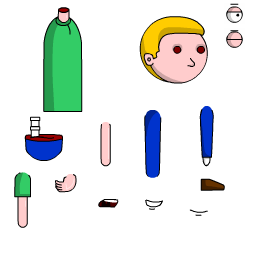
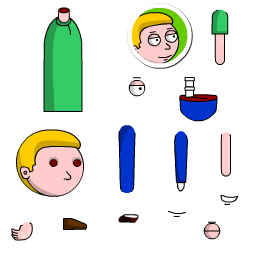
WIP character modding

diff --git a/libs/netlib.js b/libs/netlib.js
@@ -1,2 +1,2 @@
-var e=require("eventemitter3").EventEmitter;function n(e,n,t,r,i,o,a){try{var c=e[o](a),s=c.value}catch(e){return void t(e)}c.done?n(s):Promise.resolve(s).then(r,i)}function t(e,n){for(var t=0;t<n.length;t++){var r=n[t];r.enumerable=r.enumerable||!1,r.configurable=!0,"value"in r&&(r.writable=!0),Object.defineProperty(e,r.key,r)}}var r=function(){function e(n,t,r){var i=this;!function(e,n){if(!(e instanceof n))throw new TypeError("Cannot call a class as a function")}(this,e),this.network=n,this.connections=t,this.ws=new WebSocket(r),this.ws.addEventListener("open",(function(){i.network.emit("ready")})),this.ws.addEventListener("error",(function(e){i.network.emit("signalingerror",e)})),this.ws.addEventListener("close",(function(){i.network.close("signaling websocket closed")})),this.ws.addEventListener("message",(function(e){i.handleSignalingMessage(e.data).catch((function(e){}))}))}var r,i,o,a,c;return r=e,(i=[{key:"close",value:function(e){null!=this.receivedID&&this.send({type:"leave",id:this.receivedID,reason:null!=e?e:"normal closure"}),this.ws.close()}},{key:"send",value:function(e){if(this.ws.readyState===WebSocket.CONNECTING||this.ws.readyState===WebSocket.OPEN){this.network.log("sending signaling packet:",e.type);var n=JSON.stringify(e);this.ws.send(n)}}},{key:"handleSignalingMessage",value:(a=regeneratorRuntime.mark((function e(n){var t,r,i;return regeneratorRuntime.wrap((function(e){for(;;)switch(e.prev=e.next){case 0:e.prev=0,t=JSON.parse(n),this.network.log("signaling packet received:",t.type),e.t0=t.type,e.next="joined"===e.t0?6:"connect"===e.t0?13:"disconnected"===e.t0?17:"candidate"===e.t0||"description"===e.t0?19:26;break;case 6:if(""!==t.id){e.next=8;break}throw new Error("missing id on received connect packet");case 8:if(""!==t.lobby){e.next=10;break}throw new Error("missing lobby on received connect packet");case 10:return this.receivedID=t.id,this.network.emit("lobby",t.lobby),e.abrupt("break",26);case 13:if(this.receivedID!==t.id){e.next=15;break}return e.abrupt("return");case 15:return this.network._addPeer(t.id,t.polite),e.abrupt("break",26);case 17:return this.connections.has(t.id)&&(null===(r=this.connections.get(t.id))||void 0===r||r.close()),e.abrupt("break",26);case 19:if(!this.connections.has(t.source)){e.next=24;break}return e.next=22,null===(i=this.connections.get(t.source))||void 0===i?void 0:i._onSignalingMessage(t);case 22:e.next=25;break;case 24:console.error("recieved packet for unknown connection (id):",t.source);case 25:return e.abrupt("break",26);case 26:e.next=31;break;case 28:e.prev=28,e.t1=e.catch(0),this.network.emit("signalingerror",e.t1);case 31:case"end":return e.stop()}}),e,this,[[0,28]])})),c=function(){var e=this,t=arguments;return new Promise((function(r,i){var o=a.apply(e,t);function c(e){n(o,r,i,c,s,"next",e)}function s(e){n(o,r,i,c,s,"throw",e)}c(void 0)}))},function(e){return c.apply(this,arguments)})}])&&t(r.prototype,i),o&&t(r,o),e}();function i(e,n){var t=Object.keys(e);if(Object.getOwnPropertySymbols){var r=Object.getOwnPropertySymbols(e);n&&(r=r.filter((function(n){return Object.getOwnPropertyDescriptor(e,n).enumerable}))),t.push.apply(t,r)}return t}function o(e){for(var n=1;n<arguments.length;n++){var t=null!=arguments[n]?arguments[n]:{};n%2?i(Object(t),!0).forEach((function(n){u(e,n,t[n])})):Object.getOwnPropertyDescriptors?Object.defineProperties(e,Object.getOwnPropertyDescriptors(t)):i(Object(t)).forEach((function(n){Object.defineProperty(e,n,Object.getOwnPropertyDescriptor(t,n))}))}return e}function a(e,n,t,r,i,o,a){try{var c=e[o](a),s=c.value}catch(e){return void t(e)}c.done?n(s):Promise.resolve(s).then(r,i)}function c(e){return function(){var n=this,t=arguments;return new Promise((function(r,i){var o=e.apply(n,t);function c(e){a(o,r,i,c,s,"next",e)}function s(e){a(o,r,i,c,s,"throw",e)}c(void 0)}))}}function s(e,n){for(var t=0;t<n.length;t++){var r=n[t];r.enumerable=r.enumerable||!1,r.configurable=!0,"value"in r&&(r.writable=!0),Object.defineProperty(e,r.key,r)}}function u(e,n,t){return n in e?Object.defineProperty(e,n,{value:t,enumerable:!0,configurable:!0,writable:!0}):e[n]=t,e}var l=function(){function e(n,t,r,i,a){var s=this;!function(e,n){if(!(e instanceof n))throw new TypeError("Cannot call a class as a function")}(this,e),u(this,"makingOffer",!1),u(this,"ignoreOffer",!1),u(this,"isSettingRemoteAnswerPending",!1),u(this,"opened",!1),u(this,"closing",!1),u(this,"latency",0),this.network=n,this.signaling=t,this.id=r,this.polite=i,this.channels={},this.network.log("creating peer"),this.conn=new RTCPeerConnection(a),this.conn.addEventListener("icecandidate",(function(e){var n=e.candidate;null!==n&&t.send({type:"candidate",source:s.network.id,recipient:s.id,candidate:n})})),this.conn.addEventListener("negotiationneeded",(function(){setTimeout((function(){c(regeneratorRuntime.mark((function e(){var n;return regeneratorRuntime.wrap((function(e){for(;;)switch(e.prev=e.next){case 0:if(e.prev=0,!s.closing){e.next=3;break}return e.abrupt("return");case 3:s.makingOffer=!0,e.next=13;break;case 8:return e.t1=e.sent,e.next=11,e.t0.setLocalDescription.call(e.t0,e.t1);case 11:e.next=15;break;case 13:return e.next=15,s.conn.setLocalDescription();case 15:null!=(n=s.conn.localDescription)&&s.signaling.send({type:"description",source:s.network.id,recipient:s.id,description:n}),e.next=22;break;case 19:e.prev=19,e.t2=e.catch(0),s.network.emit("signalingerror",e.t2);case 22:return e.prev=22,s.makingOffer=!1,e.finish(22);case 25:case"end":return e.stop()}}),e,null,[[0,19,22,25]])})))().catch((function(e){}))}),s.polite?100:0)})),this.checkStateInterval=setInterval((function(){s.checkState()}),500),this.conn.addEventListener("signalingstatechange",(function(){return s.checkState()})),this.conn.addEventListener("connectionstatechange",(function(){return s.checkState()})),this.conn.addEventListener("iceconnectionstatechange",(function(){"failed"===s.conn.iceConnectionState&&s.conn.restartIce()})),this.network.emit("peerconnecting",this);var l=0,f=function(e){var n=s.conn.createDataChannel(e,o(o({},s.network.dataChannels[e]),{},{id:l++,negotiated:!0}));n.addEventListener("error",(function(e){return s.onError(e)})),n.addEventListener("close",(function(){return s.checkState()})),n.addEventListener("open",(function(){s.opened||Object.values(s.channels).some((function(e){return"open"!==e.readyState}))||(s.signaling.send({type:"connected",id:s.id}),s.opened=!0,s.network.emit("peerconnected",s))})),n.addEventListener("message",(function(n){s.network.emit("message",s,e,n.data)})),s.channels[e]=n};for(var h in this.network.dataChannels)f(h)}var n,t,r,i;return n=e,(t=[{key:"close",value:function(e){this.closing||(this.closing=!0,this.signaling.send({type:"disconnected",id:this.id,reason:null!=e?e:"normal closure"}),Object.values(this.channels).forEach((function(e){return e.close()})),this.conn.close(),this.network._removePeer(this),null!=this.checkStateInterval&&clearInterval(this.checkStateInterval),this.opened&&this.network.emit("peerdisconnected",this))}},{key:"checkState",value:function(){var e=this;this.closing||(this.opened?(Object.values(this.channels).some((function(e){return"open"!==e.readyState}))&&this.close("data channel closed"),"connected"!==this.conn.connectionState&&this.close("invalid connection state ".concat(this.conn.connectionState,"/").concat(this.conn.signalingState)),this.conn.getStats().then((function(n){n.forEach((function(n){var t;"transport"===n.type&&(e.latency=null!==(t=n.currentRoundTripTime)&&void 0!==t?t:0)}))})).catch((function(e){}))):"failed"===this.conn.connectionState&&this.close("connecting failed"))}},{key:"onError",value:function(e){this.network.emit("rtcerror",e),this.checkState()}},{key:"_onSignalingMessage",value:(i=c(regeneratorRuntime.mark((function e(n){var t,r,i,o;return regeneratorRuntime.wrap((function(e){for(;;)switch(e.prev=e.next){case 0:e.t0=n.type,e.next="candidate"===e.t0?3:"description"===e.t0?14:39;break;case 3:if(null==n.candidate){e.next=13;break}return e.prev=4,e.next=7,this.conn.addIceCandidate(n.candidate);case 7:e.next=13;break;case 9:if(e.prev=9,e.t1=e.catch(4),this.ignoreOffer){e.next=13;break}throw e.t1;case 13:return e.abrupt("break",39);case 14:if(t=n.description,r=!this.makingOffer&&("stable"===this.conn.signalingState||this.isSettingRemoteAnswerPending),i="offer"===t.type&&!r,this.ignoreOffer=!this.polite&&i,!this.ignoreOffer){e.next=20;break}return e.abrupt("return");case 20:return this.isSettingRemoteAnswerPending="answer"===t.type,e.next=23,this.conn.setRemoteDescription(t);case 23:if(this.isSettingRemoteAnswerPending=!1,"offer"!==t.type){e.next=38;break}e.next=34;break;case 29:return e.t3=e.sent,e.next=32,e.t2.setLocalDescription.call(e.t2,e.t3);case 32:e.next=36;break;case 34:return e.next=36,this.conn.setLocalDescription();case 36:null!=(o=this.conn.localDescription)&&this.signaling.send({type:"description",source:this.network.id,recipient:this.id,description:o});case 38:return e.abrupt("break",39);case 39:case"end":return e.stop()}}),e,this,[[4,9]])}))),function(e){return i.apply(this,arguments)})},{key:"send",value:function(e,n){if(!(e in this.channels))throw new Error("unknown channel "+e);var t=this.channels[e];"open"===t.readyState&&t.send(n)}},{key:"toString",value:function(){return"[Peer: ".concat(this.id,"]")}}])&&s(n.prototype,t),r&&s(n,r),e}();function f(e){return(f="function"==typeof Symbol&&"symbol"==typeof Symbol.iterator?function(e){return typeof e}:function(e){return e&&"function"==typeof Symbol&&e.constructor===Symbol&&e!==Symbol.prototype?"symbol":typeof e})(e)}function h(e,n){var t="undefined"!=typeof Symbol&&e[Symbol.iterator]||e["@@iterator"];if(!t){if(Array.isArray(e)||(t=function(e,n){if(!e)return;if("string"==typeof e)return d(e,n);var t=Object.prototype.toString.call(e).slice(8,-1);"Object"===t&&e.constructor&&(t=e.constructor.name);if("Map"===t||"Set"===t)return Array.from(e);if("Arguments"===t||/^(?:Ui|I)nt(?:8|16|32)(?:Clamped)?Array$/.test(t))return d(e,n)}(e))||n&&e&&"number"==typeof e.length){t&&(e=t);var r=0,i=function(){};return{s:i,n:function(){return r>=e.length?{done:!0}:{done:!1,value:e[r++]}},e:function(e){function n(n){return e.apply(this,arguments)}return n.toString=function(){return e.toString()},n}((function(e){throw e})),f:i}}throw new TypeError("Invalid attempt to iterate non-iterable instance.\nIn order to be iterable, non-array objects must have a [Symbol.iterator]() method.")}var o,a=!0,c=!1;return{s:function(){t=t.call(e)},n:function(){var e=t.next();return a=e.done,e},e:function(e){function n(n){return e.apply(this,arguments)}return n.toString=function(){return e.toString()},n}((function(e){c=!0,o=e})),f:function(){try{a||null==t.return||t.return()}finally{if(c)throw o}}}}function d(e,n){(null==n||n>e.length)&&(n=e.length);for(var t=0,r=new Array(n);t<n;t++)r[t]=e[t];return r}function p(e,n){if(!(e instanceof n))throw new TypeError("Cannot call a class as a function")}function g(e,n){for(var t=0;t<n.length;t++){var r=n[t];r.enumerable=r.enumerable||!1,r.configurable=!0,"value"in r&&(r.writable=!0),Object.defineProperty(e,r.key,r)}}function v(e,n){return(v=Object.setPrototypeOf||function(e,n){return e.__proto__=n,e})(e,n)}function y(e){var n=function(){if("undefined"==typeof Reflect||!Reflect.construct)return!1;if(Reflect.construct.sham)return!1;if("function"==typeof Proxy)return!0;try{return Boolean.prototype.valueOf.call(Reflect.construct(Boolean,[],(function(){}))),!0}catch(e){return!1}}();return function(){var t,r=w(e);if(n){var i=w(this).constructor;t=Reflect.construct(r,arguments,i)}else t=r.apply(this,arguments);return b(this,t)}}function b(e,n){return!n||"object"!==f(n)&&"function"!=typeof n?k(e):n}function k(e){if(void 0===e)throw new ReferenceError("this hasn't been initialised - super() hasn't been called");return e}function w(e){return(w=Object.setPrototypeOf?Object.getPrototypeOf:function(e){return e.__proto__||Object.getPrototypeOf(e)})(e)}function m(e,n,t){return n in e?Object.defineProperty(e,n,{value:t,enumerable:!0,configurable:!0,writable:!0}):e[n]=t,e}var S=function(n){!function(e,n){if("function"!=typeof n&&null!==n)throw new TypeError("Super expression must either be null or a function");e.prototype=Object.create(n&&n.prototype,{constructor:{value:e,writable:!0,configurable:!0}}),n&&v(e,n)}(c,e);var t,i,o,a=y(c);function c(e){var n,t=arguments.length>1&&void 0!==arguments[1]?arguments[1]:O;return p(this,c),m(k(n=a.call(this)),"closing",!1),m(k(n),"dataChannels",E),m(k(n),"log",(function(){})),n.gameID=e,n.signalingURL=t,n.peers=new Map,n.signaling=new r(k(n),n.peers,t),n}return t=c,(i=[{key:"create",value:function(){this.signaling.send({type:"create",game:this.gameID})}},{key:"join",value:function(e){this.signaling.send({type:"join",game:this.gameID,lobby:e})}},{key:"close",value:function(e){if(!this.closing){this.closing=!0,this.emit("close",e);var n,t=h(this.peers.values());try{for(t.s();!(n=t.n()).done;)n.value.close(e)}catch(e){t.e(e)}finally{t.f()}this.signaling.close(e)}}},{key:"send",value:function(e,n,t){if(!(e in this.dataChannels))throw new Error("unknown channel "+e);var r;this.peers.has(n)&&(null===(r=this.peers.get(n))||void 0===r||r.send(e,t))}},{key:"broadcast",value:function(e,n){if(!(e in this.dataChannels))throw new Error("unknown channel "+e);var t,r=h(this.peers.values());try{for(r.s();!(t=r.n()).done;)t.value.send(e,n)}catch(e){r.e(e)}finally{r.f()}}},{key:"_addPeer",value:function(e,n){var t=new l(this,this.signaling,e,n,x);return this.peers.set(e,t),t}},{key:"_removePeer",value:function(e){return this.peers.delete(e.id)}},{key:"id",get:function(){var e;return null!==(e=this.signaling.receivedID)&&void 0!==e?e:""}},{key:"size",get:function(){return this.peers.size}}])&&g(t.prototype,i),o&&g(t,o),c}();exports.Network=S;var O="ws://localhost:8080/v0/signaling";exports.DefaultSignalingURL=O;var x={iceServers:[{urls:["stun:stun.l.google.com:19302","stun:stun3.l.google.com:19302"]},{urls:["turn:localhost:8080"],username:"optional-username",credential:"secret",credentialType:"password"}]};exports.DefaultRTCConfiguration=x;var E={reliable:{ordered:!0},unreliable:{ordered:!1,maxRetransmits:0}};exports.DefaultDataChannels=E;
+var e=require("eventemitter3").EventEmitter;function n(e,n,t,r,i,o,a){try{var c=e[o](a),s=c.value}catch(e){return void t(e)}c.done?n(s):Promise.resolve(s).then(r,i)}function t(e,n){for(var t=0;t<n.length;t++){var r=n[t];r.enumerable=r.enumerable||!1,r.configurable=!0,"value"in r&&(r.writable=!0),Object.defineProperty(e,r.key,r)}}var r=function(){function e(n,t,r){var i=this;!function(e,n){if(!(e instanceof n))throw new TypeError("Cannot call a class as a function")}(this,e),this.network=n,this.connections=t,this.ws=new WebSocket(r),this.ws.addEventListener("open",(function(){i.network.emit("ready")})),this.ws.addEventListener("error",(function(e){i.network.emit("signalingerror",e),0===i.network.listenerCount("signalingerror")&&console.error("signallingerror not handled:",e)})),this.ws.addEventListener("close",(function(){})),this.ws.addEventListener("message",(function(e){i.handleSignalingMessage(e.data).catch((function(e){}))}))}var r,i,o,a,c;return r=e,(i=[{key:"close",value:function(e){null!=this.receivedID&&this.send({type:"leave",id:this.receivedID,reason:null!=e?e:"normal closure"}),this.ws.close()}},{key:"send",value:function(e){if(this.ws.readyState===WebSocket.CONNECTING||this.ws.readyState===WebSocket.OPEN){this.network.log("sending signaling packet:",e.type);var n=JSON.stringify(e);this.ws.send(n)}}},{key:"handleSignalingMessage",value:(a=regeneratorRuntime.mark((function e(n){var t,r,i;return regeneratorRuntime.wrap((function(e){for(;;)switch(e.prev=e.next){case 0:e.prev=0,t=JSON.parse(n),this.network.log("signaling packet received:",t.type),e.t0=t.type,e.next="joined"===e.t0?6:"connect"===e.t0?13:"disconnected"===e.t0?17:"candidate"===e.t0||"description"===e.t0?19:26;break;case 6:if(""!==t.id){e.next=8;break}throw new Error("missing id on received connect packet");case 8:if(""!==t.lobby){e.next=10;break}throw new Error("missing lobby on received connect packet");case 10:return this.receivedID=t.id,this.network.emit("lobby",t.lobby),e.abrupt("break",26);case 13:if(this.receivedID!==t.id){e.next=15;break}return e.abrupt("return");case 15:return this.network._addPeer(t.id,t.polite),e.abrupt("break",26);case 17:return this.connections.has(t.id)&&(null===(r=this.connections.get(t.id))||void 0===r||r.close()),e.abrupt("break",26);case 19:if(!this.connections.has(t.source)){e.next=24;break}return e.next=22,null===(i=this.connections.get(t.source))||void 0===i?void 0:i._onSignalingMessage(t);case 22:e.next=25;break;case 24:this.network.closing||console.error(this.network.id,"recieved packet for unknown connection (id):",t.source);case 25:return e.abrupt("break",26);case 26:e.next=31;break;case 28:e.prev=28,e.t1=e.catch(0),this.network.emit("signalingerror",e.t1);case 31:case"end":return e.stop()}}),e,this,[[0,28]])})),c=function(){var e=this,t=arguments;return new Promise((function(r,i){var o=a.apply(e,t);function c(e){n(o,r,i,c,s,"next",e)}function s(e){n(o,r,i,c,s,"throw",e)}c(void 0)}))},function(e){return c.apply(this,arguments)})}])&&t(r.prototype,i),o&&t(r,o),e}();function i(e,n){var t=Object.keys(e);if(Object.getOwnPropertySymbols){var r=Object.getOwnPropertySymbols(e);n&&(r=r.filter((function(n){return Object.getOwnPropertyDescriptor(e,n).enumerable}))),t.push.apply(t,r)}return t}function o(e){for(var n=1;n<arguments.length;n++){var t=null!=arguments[n]?arguments[n]:{};n%2?i(Object(t),!0).forEach((function(n){u(e,n,t[n])})):Object.getOwnPropertyDescriptors?Object.defineProperties(e,Object.getOwnPropertyDescriptors(t)):i(Object(t)).forEach((function(n){Object.defineProperty(e,n,Object.getOwnPropertyDescriptor(t,n))}))}return e}function a(e,n,t,r,i,o,a){try{var c=e[o](a),s=c.value}catch(e){return void t(e)}c.done?n(s):Promise.resolve(s).then(r,i)}function c(e){return function(){var n=this,t=arguments;return new Promise((function(r,i){var o=e.apply(n,t);function c(e){a(o,r,i,c,s,"next",e)}function s(e){a(o,r,i,c,s,"throw",e)}c(void 0)}))}}function s(e,n){for(var t=0;t<n.length;t++){var r=n[t];r.enumerable=r.enumerable||!1,r.configurable=!0,"value"in r&&(r.writable=!0),Object.defineProperty(e,r.key,r)}}function u(e,n,t){return n in e?Object.defineProperty(e,n,{value:t,enumerable:!0,configurable:!0,writable:!0}):e[n]=t,e}var l=function(){function e(n,t,r,i,a){var s=this;!function(e,n){if(!(e instanceof n))throw new TypeError("Cannot call a class as a function")}(this,e),u(this,"makingOffer",!1),u(this,"ignoreOffer",!1),u(this,"isSettingRemoteAnswerPending",!1),u(this,"opened",!1),u(this,"closing",!1),u(this,"latency",0),this.network=n,this.signaling=t,this.id=r,this.polite=i,this.channels={},this.network.log("creating peer"),this.conn=new RTCPeerConnection(a),this.conn.addEventListener("icecandidate",(function(e){var n=e.candidate;null!==n&&t.send({type:"candidate",source:s.network.id,recipient:s.id,candidate:n})})),this.conn.addEventListener("negotiationneeded",(function(){setTimeout((function(){c(regeneratorRuntime.mark((function e(){var n;return regeneratorRuntime.wrap((function(e){for(;;)switch(e.prev=e.next){case 0:if(e.prev=0,!s.closing){e.next=3;break}return e.abrupt("return");case 3:s.makingOffer=!0,e.next=13;break;case 8:return e.t1=e.sent,e.next=11,e.t0.setLocalDescription.call(e.t0,e.t1);case 11:e.next=15;break;case 13:return e.next=15,s.conn.setLocalDescription();case 15:null!=(n=s.conn.localDescription)&&s.signaling.send({type:"description",source:s.network.id,recipient:s.id,description:n}),e.next=22;break;case 19:e.prev=19,e.t2=e.catch(0),s.network.emit("signalingerror",e.t2);case 22:return e.prev=22,s.makingOffer=!1,e.finish(22);case 25:case"end":return e.stop()}}),e,null,[[0,19,22,25]])})))().catch((function(e){}))}),s.polite?100:0)})),this.checkStateInterval=setInterval((function(){s.checkState()}),500),this.conn.addEventListener("signalingstatechange",(function(){return s.checkState()})),this.conn.addEventListener("connectionstatechange",(function(){return s.checkState()})),this.conn.addEventListener("iceconnectionstatechange",(function(){"failed"===s.conn.iceConnectionState&&s.conn.restartIce()})),this.network.emit("peerconnecting",this);var l=0,f=function(e){var n=s.conn.createDataChannel(e,o(o({},s.network.dataChannels[e]),{},{id:l++,negotiated:!0}));n.addEventListener("error",(function(e){return s.onError(e)})),n.addEventListener("close",(function(){return s.checkState()})),n.addEventListener("open",(function(){s.opened||Object.values(s.channels).some((function(e){return"open"!==e.readyState}))||(s.signaling.send({type:"connected",id:s.id}),s.opened=!0,s.network.emit("peerconnected",s))})),n.addEventListener("message",(function(n){s.network.emit("message",s,e,n.data)})),s.channels[e]=n};for(var h in this.network.dataChannels)f(h)}var n,t,r,i;return n=e,(t=[{key:"close",value:function(e){this.closing||(this.closing=!0,this.signaling.send({type:"disconnected",id:this.id,reason:null!=e?e:"normal closure"}),Object.values(this.channels).forEach((function(e){return e.close()})),this.conn.close(),this.network._removePeer(this),null!=this.checkStateInterval&&clearInterval(this.checkStateInterval),this.opened&&this.network.emit("peerdisconnected",this))}},{key:"checkState",value:function(){var e=this;this.closing||(this.opened?(Object.values(this.channels).some((function(e){return"open"!==e.readyState}))&&this.close("data channel closed"),"connected"!==this.conn.connectionState&&this.close("invalid connection state ".concat(this.conn.connectionState,"/").concat(this.conn.signalingState)),this.conn.getStats().then((function(n){n.forEach((function(n){var t;"transport"===n.type&&(e.latency=null!==(t=n.currentRoundTripTime)&&void 0!==t?t:0)}))})).catch((function(e){}))):"failed"===this.conn.connectionState&&this.close("connecting failed"))}},{key:"onError",value:function(e){this.network.emit("rtcerror",e),this.checkState()}},{key:"_onSignalingMessage",value:(i=c(regeneratorRuntime.mark((function e(n){var t,r,i,o;return regeneratorRuntime.wrap((function(e){for(;;)switch(e.prev=e.next){case 0:e.t0=n.type,e.next="candidate"===e.t0?3:"description"===e.t0?14:39;break;case 3:if(null==n.candidate){e.next=13;break}return e.prev=4,e.next=7,this.conn.addIceCandidate(n.candidate);case 7:e.next=13;break;case 9:if(e.prev=9,e.t1=e.catch(4),this.ignoreOffer){e.next=13;break}throw e.t1;case 13:return e.abrupt("break",39);case 14:if(t=n.description,r=!this.makingOffer&&("stable"===this.conn.signalingState||this.isSettingRemoteAnswerPending),i="offer"===t.type&&!r,this.ignoreOffer=!this.polite&&i,!this.ignoreOffer){e.next=20;break}return e.abrupt("return");case 20:return this.isSettingRemoteAnswerPending="answer"===t.type,e.next=23,this.conn.setRemoteDescription(t);case 23:if(this.isSettingRemoteAnswerPending=!1,"offer"!==t.type){e.next=38;break}e.next=34;break;case 29:return e.t3=e.sent,e.next=32,e.t2.setLocalDescription.call(e.t2,e.t3);case 32:e.next=36;break;case 34:return e.next=36,this.conn.setLocalDescription();case 36:null!=(o=this.conn.localDescription)&&this.signaling.send({type:"description",source:this.network.id,recipient:this.id,description:o});case 38:return e.abrupt("break",39);case 39:case"end":return e.stop()}}),e,this,[[4,9]])}))),function(e){return i.apply(this,arguments)})},{key:"send",value:function(e,n){if(!(e in this.channels))throw new Error("unknown channel "+e);var t=this.channels[e];"open"===t.readyState&&t.send(n)}},{key:"toString",value:function(){return"[Peer: ".concat(this.id,"]")}}])&&s(n.prototype,t),r&&s(n,r),e}();function f(e){return(f="function"==typeof Symbol&&"symbol"==typeof Symbol.iterator?function(e){return typeof e}:function(e){return e&&"function"==typeof Symbol&&e.constructor===Symbol&&e!==Symbol.prototype?"symbol":typeof e})(e)}function h(e,n){var t="undefined"!=typeof Symbol&&e[Symbol.iterator]||e["@@iterator"];if(!t){if(Array.isArray(e)||(t=function(e,n){if(!e)return;if("string"==typeof e)return d(e,n);var t=Object.prototype.toString.call(e).slice(8,-1);"Object"===t&&e.constructor&&(t=e.constructor.name);if("Map"===t||"Set"===t)return Array.from(e);if("Arguments"===t||/^(?:Ui|I)nt(?:8|16|32)(?:Clamped)?Array$/.test(t))return d(e,n)}(e))||n&&e&&"number"==typeof e.length){t&&(e=t);var r=0,i=function(){};return{s:i,n:function(){return r>=e.length?{done:!0}:{done:!1,value:e[r++]}},e:function(e){function n(n){return e.apply(this,arguments)}return n.toString=function(){return e.toString()},n}((function(e){throw e})),f:i}}throw new TypeError("Invalid attempt to iterate non-iterable instance.\nIn order to be iterable, non-array objects must have a [Symbol.iterator]() method.")}var o,a=!0,c=!1;return{s:function(){t=t.call(e)},n:function(){var e=t.next();return a=e.done,e},e:function(e){function n(n){return e.apply(this,arguments)}return n.toString=function(){return e.toString()},n}((function(e){c=!0,o=e})),f:function(){try{a||null==t.return||t.return()}finally{if(c)throw o}}}}function d(e,n){(null==n||n>e.length)&&(n=e.length);for(var t=0,r=new Array(n);t<n;t++)r[t]=e[t];return r}function p(e,n){if(!(e instanceof n))throw new TypeError("Cannot call a class as a function")}function g(e,n){for(var t=0;t<n.length;t++){var r=n[t];r.enumerable=r.enumerable||!1,r.configurable=!0,"value"in r&&(r.writable=!0),Object.defineProperty(e,r.key,r)}}function v(e,n){return(v=Object.setPrototypeOf||function(e,n){return e.__proto__=n,e})(e,n)}function y(e){var n=function(){if("undefined"==typeof Reflect||!Reflect.construct)return!1;if(Reflect.construct.sham)return!1;if("function"==typeof Proxy)return!0;try{return Boolean.prototype.valueOf.call(Reflect.construct(Boolean,[],(function(){}))),!0}catch(e){return!1}}();return function(){var t,r=w(e);if(n){var i=w(this).constructor;t=Reflect.construct(r,arguments,i)}else t=r.apply(this,arguments);return b(this,t)}}function b(e,n){return!n||"object"!==f(n)&&"function"!=typeof n?k(e):n}function k(e){if(void 0===e)throw new ReferenceError("this hasn't been initialised - super() hasn't been called");return e}function w(e){return(w=Object.setPrototypeOf?Object.getPrototypeOf:function(e){return e.__proto__||Object.getPrototypeOf(e)})(e)}function m(e,n,t){return n in e?Object.defineProperty(e,n,{value:t,enumerable:!0,configurable:!0,writable:!0}):e[n]=t,e}var S=function(n){!function(e,n){if("function"!=typeof n&&null!==n)throw new TypeError("Super expression must either be null or a function");e.prototype=Object.create(n&&n.prototype,{constructor:{value:e,writable:!0,configurable:!0}}),n&&v(e,n)}(c,e);var t,i,o,a=y(c);function c(e){var n,t=arguments.length>1&&void 0!==arguments[1]?arguments[1]:O;return p(this,c),m(k(n=a.call(this)),"closing",!1),m(k(n),"dataChannels",E),m(k(n),"log",(function(){})),n.gameID=e,n.signalingURL=t,n.peers=new Map,n.signaling=new r(k(n),n.peers,t),n}return t=c,(i=[{key:"create",value:function(){this.signaling.send({type:"create",game:this.gameID})}},{key:"join",value:function(e){this.signaling.send({type:"join",game:this.gameID,lobby:e})}},{key:"close",value:function(e){if(!this.closing){this.closing=!0,this.emit("close",e);var n,t=h(this.peers.values());try{for(t.s();!(n=t.n()).done;)n.value.close(e)}catch(e){t.e(e)}finally{t.f()}this.signaling.close(e)}}},{key:"send",value:function(e,n,t){if(!(e in this.dataChannels))throw new Error("unknown channel "+e);var r;this.peers.has(n)&&(null===(r=this.peers.get(n))||void 0===r||r.send(e,t))}},{key:"broadcast",value:function(e,n){if(!(e in this.dataChannels))throw new Error("unknown channel "+e);var t,r=h(this.peers.values());try{for(r.s();!(t=r.n()).done;)t.value.send(e,n)}catch(e){r.e(e)}finally{r.f()}}},{key:"_addPeer",value:function(e,n){var t=new l(this,this.signaling,e,n,x);return this.peers.set(e,t),t}},{key:"_removePeer",value:function(e){return this.peers.delete(e.id)}},{key:"id",get:function(){var e;return null!==(e=this.signaling.receivedID)&&void 0!==e?e:""}},{key:"size",get:function(){return this.peers.size}}])&&g(t.prototype,i),o&&g(t,o),c}();exports.Network=S;var O="ws://localhost:8080/v0/signaling";exports.DefaultSignalingURL=O;var x={iceServers:[{urls:["stun:stun.l.google.com:19302","stun:stun3.l.google.com:19302"]},{urls:["turn:localhost:8080"],username:"optional-username",credential:"secret",credentialType:"password"}]};exports.DefaultRTCConfiguration=x;var E={reliable:{ordered:!0},unreliable:{ordered:!1,maxRetransmits:0}};exports.DefaultDataChannels=E;
 //# sourceMappingURL=netlib.js.map

diff --git a/src/multiplayer/multiplayerManager.js b/src/multiplayer/multiplayerManager.js
@@ -2,6 +2,7 @@ import { game } from '../Game'
 import { updateLobbyUI } from '../ui/lobby';
 import { backendManager } from '../utils/BackendManager';
 import { globalEvents } from '../utils/EventDispatcher';
+import { getModdedPortrait } from '../utils/ModManager';
 import { characterFromBuffer, characterToBuffer, dataFromAdminIntroductionBuffer, dataFromChangeServerLevelBuffer, dataFromIntroductionBuffer, dataFromSimpleMessageBuffer, dataFromStartLoadLevelBuffer, dataToAdminIntroductionBuffer, dataToChangeServerLevelBuffer, dataToIntroductionBuffer, dataToSimpleMessageBuffer, dataToStartLoadLevelBuffer } from './messagePacker';
 import { multiplayerAtlas, RippleCharacter } from './rippleCharacter';
 import { introductionModel, SIMPLE_MESSAGE_TYPES } from './schemas';
@@ -32,6 +33,7 @@ export const multiplayerState = {
 	selectedLevel: '',
 	selectedLevelData: null,
 	lobbyState: LOBBY_STATE.OFFLINE,
+	skinBlob: null,
 	fakeUsername: `Jolly${(Math.floor(Math.random()*100000)).toString().padStart(5, '0')}`,
 }
 
@@ -49,6 +51,8 @@ export const startMultiplayer = () => {
 	globalEvents.addEventListener(SERVER_EVENTS.START_LOAD_LEVEL, handleStartLoadLevel);
 
 	if(multiplayerState.debug) document.body.appendChild(debugWindow);
+
+	prepareSkinForSending();
 }
 
 export const networkReady = () => {
@@ -70,8 +74,6 @@ export const autoConnectLobby = id => {
 export const createLobby = () => {
 	multiplayerState.lobbyState = LOBBY_STATE.CONNECTING;
 	server.createLobby();
-
-	prepareSkinForSending();
 }
 
 export const setLobbyStateReady = ready => {
@@ -155,7 +157,7 @@ const playerLeft = ({id}) => {
 
 const playerIntroduction = ({peer, buffer, admin}) => {
 	let introductionData = null;
-	
+
 	if(!admin) introductionData = dataFromIntroductionBuffer(buffer);
 	else introductionData = dataFromAdminIntroductionBuffer(buffer);
 
@@ -185,7 +187,6 @@ const handleChangeLevel = ({buffer}) => {
 
 const handleStartLoadLevel = async ({buffer}) => {
 	const { levelID } = dataFromStartLoadLevelBuffer(buffer);
-	console.log("START LOAD LEVEL:", levelID);
 	startLoadLevel(levelID);
 }
 
@@ -335,7 +336,10 @@ export const updateMultiplayer = () => {
 }
 
 
-const prepareSkinForSending = () => {
+const prepareSkinForSending = async () => {
+
+	if(multiplayerState.skinBlob) return multiplayerState.skinBlob;
+
 	const skinCanvas = document.createElement('canvas');
 	skinCanvas.width = skinCanvas.height = 256;
 	const skinContext = skinCanvas.getContext('2d', {alpha:true});
@@ -348,27 +352,45 @@ const prepareSkinForSending = () => {
 		left: 0;
 		z-index: 9999999;
 	`
+	const skin = game.selectedCharacter;
+
+	//
+	const profilePic = await getModdedPortrait(`profile${skin+1}.png`, 'assets/images/portraits/');
+	const profileImage = new Image();
+	await new Promise(resolve => {
+		profileImage.src = profilePic;
+		profileImage.onload = resolve;
+	});
 
 	// draw parts
-	const skin = 0;
 	const targetFrame = String(skin).padStart(4, '0');
 	Object.keys(multiplayerAtlas.frames).forEach(partKey => {
 		const resourceName = `${partKey}${targetFrame}`;
 		const {x, y} = multiplayerAtlas.frames[partKey].frame;
 
-		const texture = PIXI.Texture.from(resourceName);
-
-		const imageResource = texture.baseTexture.resource.source;
-		const sourceFrame = texture.frame;
+		let imageResource, sourceFrame;
+		if(partKey === 'profile'){
+			imageResource = profileImage;
+			sourceFrame = profileImage;
+		} else {
+			const texture = PIXI.Texture.from(resourceName);
+			imageResource = texture.baseTexture.resource.source;
+			sourceFrame = texture.frame;
+		}
 
 		skinContext.drawImage(imageResource, sourceFrame.x, sourceFrame.y, sourceFrame.width, sourceFrame.height, x, y, sourceFrame.width, sourceFrame.height);
 	});
 
-	// MAKING A BLOB
-	// const blob = $0.toBlob(blob => {
-	// 	window.blobby = blob;
-	// 	}, 'image/png');
+	await new Promise(resolve => {
+		skinCanvas.toBlob(blob => {
+			multiplayerState.skinBlob = blob;
+			resolve();
+		}, 'image/png')
+	});
 
+	updateLobbyUI();
+
+	return multiplayerState.skinBlob;
 
 	// ON THE OTHER SIDE
 	// var myImage = new Image();
@@ -376,11 +398,6 @@ const prepareSkinForSending = () => {
 	// myImage.src = objectURL;
 
 	// document.body.appendChild(myImage)
-
-	console.log("************ CANVAS *************");
-	console.log(skinCanvas);
-	console.log("*********************************");
-
 }
 
 const fetchLevelInfo = async id => {
@@ -462,7 +479,4 @@ const updateDebugData = () =>{
 			<li>Y:${player.sprite.position.y}</li>
 		</ul>`
 	})
-
 }
-
-startMultiplayer();

diff --git a/src/multiplayer/rippleCharacter.js b/src/multiplayer/rippleCharacter.js
@@ -246,7 +246,7 @@ export const multiplayerAtlas = {
 	"frames": {
 		"Mouth_Idle":
 		{
-			"frame": {"x":178,"y":198,"w":43,"h":31},
+			"frame": {"x":156,"y":199,"w":43,"h":31},
 			"rotated": false,
 			"trimmed": false,
 			"spriteSourceSize": {"x":0,"y":0,"w":43,"h":31},
@@ -254,7 +254,7 @@ export const multiplayerAtlas = {
 		},
 		"Mouth_Pain":
 		{
-			"frame": {"x":88,"y":190,"w":43,"h":31},
+			"frame": {"x":108,"y":205,"w":43,"h":31},
 			"rotated": false,
 			"trimmed": false,
 			"spriteSourceSize": {"x":0,"y":0,"w":43,"h":31},
@@ -262,7 +262,7 @@ export const multiplayerAtlas = {
 		},
 		"Mouth_Special":
 		{
-			"frame": {"x":133,"y":190,"w":43,"h":31},
+			"frame": {"x":208,"y":185,"w":43,"h":31},
 			"rotated": false,
 			"trimmed": false,
 			"spriteSourceSize": {"x":0,"y":0,"w":43,"h":31},
@@ -270,7 +270,7 @@ export const multiplayerAtlas = {
 		},
 		"Normal_Arm":
 		{
-			"frame": {"x":88,"y":115,"w":36,"h":58},
+			"frame": {"x":208,"y":125,"w":36,"h":58},
 			"rotated": false,
 			"trimmed": false,
 			"spriteSourceSize": {"x":0,"y":0,"w":36,"h":58},
@@ -278,7 +278,7 @@ export const multiplayerAtlas = {
 		},
 		"Normal_Belly":
 		{
-			"frame": {"x":2,"y":115,"w":84,"h":48},
+			"frame": {"x":156,"y":75,"w":84,"h":48},
 			"rotated": false,
 			"trimmed": false,
 			"spriteSourceSize": {"x":0,"y":0,"w":84,"h":48},
@@ -294,7 +294,7 @@ export const multiplayerAtlas = {
 		},
 		"Normal_Eye":
 		{
-			"frame": {"x":224,"y":2,"w":23,"h":23},
+			"frame": {"x":126,"y":75,"w":23,"h":23},
 			"rotated": false,
 			"trimmed": false,
 			"spriteSourceSize": {"x":0,"y":0,"w":23,"h":23},
@@ -302,7 +302,7 @@ export const multiplayerAtlas = {
 		},
 		"Normal_Eye_Closed":
 		{
-			"frame": {"x":224,"y":27,"w":23,"h":23},
+			"frame": {"x":201,"y":218,"w":23,"h":23},
 			"rotated": false,
 			"trimmed": false,
 			"spriteSourceSize": {"x":0,"y":0,"w":23,"h":23},
@@ -310,7 +310,7 @@ export const multiplayerAtlas = {
 		},
 		"Normal_Feet":
 		{
-			"frame": {"x":182,"y":174,"w":62,"h":22},
+			"frame": {"x":44,"y":213,"w":62,"h":22},
 			"rotated": false,
 			"trimmed": false,
 			"spriteSourceSize": {"x":0,"y":0,"w":62,"h":22},
@@ -318,7 +318,7 @@ export const multiplayerAtlas = {
 		},
 		"Normal_Hand":
 		{
-			"frame": {"x":46,"y":165,"w":40,"h":36},
+			"frame": {"x":2,"y":213,"w":40,"h":36},
 			"rotated": false,
 			"trimmed": false,
 			"spriteSourceSize": {"x":0,"y":0,"w":40,"h":36},
@@ -326,7 +326,7 @@ export const multiplayerAtlas = {
 		},
 		"Normal_Head_Idle":
 		{
-			"frame": {"x":126,"y":2,"w":96,"h":96},
+			"frame": {"x":2,"y":115,"w":96,"h":96},
 			"rotated": false,
 			"trimmed": false,
 			"spriteSourceSize": {"x":0,"y":0,"w":96,"h":96},
@@ -334,7 +334,7 @@ export const multiplayerAtlas = {
 		},
 		"Normal_Leg":
 		{
-			"frame": {"x":182,"y":100,"w":50,"h":72},
+			"frame": {"x":156,"y":125,"w":50,"h":72},
 			"rotated": false,
 			"trimmed": false,
 			"spriteSourceSize": {"x":0,"y":0,"w":50,"h":72},
@@ -342,7 +342,7 @@ export const multiplayerAtlas = {
 		},
 		"Normal_Shoulder":
 		{
-			"frame": {"x":2,"y":165,"w":42,"h":70},
+			"frame": {"x":199,"y":2,"w":42,"h":70},
 			"rotated": false,
 			"trimmed": false,
 			"spriteSourceSize": {"x":0,"y":0,"w":42,"h":70},
@@ -350,11 +350,19 @@ export const multiplayerAtlas = {
 		},
 		"Normal_Thigh":
 		{
-			"frame": {"x":126,"y":100,"w":54,"h":88},
+			"frame": {"x":100,"y":115,"w":54,"h":88},
 			"rotated": false,
 			"trimmed": false,
 			"spriteSourceSize": {"x":0,"y":0,"w":54,"h":88},
 			"sourceSize": {"w":54,"h":88}
+		},
+		"profile":
+		{
+			"frame": {"x":126,"y":2,"w":71,"h":71},
+			"rotated": false,
+			"trimmed": false,
+			"spriteSourceSize": {"x":0,"y":0,"w":71,"h":71},
+			"sourceSize": {"w":71,"h":71}
 		}
 	},
 	"meta": {

diff --git a/src/ui/lobby.js b/src/ui/lobby.js
@@ -2,6 +2,7 @@ import { formatDMY } from '../b2Editor/utils/formatString';
 import '../css/Lobby.scss'
 import { game } from '../Game';
 import { adminStartLoadLevel, LOBBY_STATE, multiplayerState, setLobbyStateReady } from '../multiplayer/multiplayerManager';
+import { multiplayerAtlas } from '../multiplayer/rippleCharacter';
 import { Settings } from '../Settings';
 import { backendManager } from '../utils/BackendManager';
 import { localize } from '../utils/Localization';
@@ -141,8 +142,9 @@ export const updateLobbyUI = () => {
 		admin: multiplayerState.admin,
 		playerState: {
 			name: backendManager.userData?.username || multiplayerState.fakeUsername,
-			lobbyState: multiplayerState.lobbyState
-		}
+			lobbyState: multiplayerState.lobbyState,
+		},
+		skinBlob: multiplayerState.skinBlob
 	}
 
 	while(entries.children.length>1){
@@ -154,10 +156,22 @@ export const updateLobbyUI = () => {
 
 	let playersReady = 1;
 
-	players.forEach(({ admin, playerState }, index) => {
+	players.forEach(({ admin, playerState, skinBlob }, index) => {
 		const entry = template.cloneNode(true);
 		entry.style.display = 'flex';
 		entry.classList.remove('entry-template');
+
+		const profile = entry.querySelector('.profile');
+
+		if(skinBlob){
+			const resolution = 2;
+			profile.style.backgroundImage = `url(${URL.createObjectURL(skinBlob)})`;
+			profile.style.backgroundSize = `${256 / resolution}px`;
+			const frame = multiplayerAtlas.frames.profile.frame;
+			profile.style.backgroundPosition = `${frame.x / resolution}px ${frame.y / resolution}px`;
+		}else{
+			profile.style.backgroundImage = '';
+		}
 
 		const username = entry.querySelector('.text-player-name')
 		username.innerText = playerState.name;

diff --git a/src/ui/UIManager.js b/src/ui/UIManager.js
@@ -47,7 +47,7 @@ import * as betterLocalStorage from '../utils/LocalStorageWrapper'
 import { getModdedPortrait } from '../utils/ModManager'
 import { destroyAllAds, getAdContainer, updateDisplayAds } from '../utils/AdManager'
 import { generateLobby, updateLobbyUI } from './lobby'
-import { createLobby, LOBBY_STATE, multiplayerState, selectMultiplayerLevel } from '../multiplayer/multiplayerManager'
+import { createLobby, LOBBY_STATE, multiplayerState, selectMultiplayerLevel, startMultiplayer } from '../multiplayer/multiplayerManager'
 
 let customGUIContainer = document.getElementById('game-ui-container');
 let imageObserver = new IntersectionObserver(entries => entries.forEach(entry => {
@@ -142,6 +142,7 @@ function UIManager() {
             const multiplayerBut = grid.querySelector('.multiplayer-but');
             multiplayerBut.onclick = () => {
                 this.setMainMenuActive('multiplayer');
+                startMultiplayer();
             }
 
             const editorBut = grid.querySelector('.editor-but');
